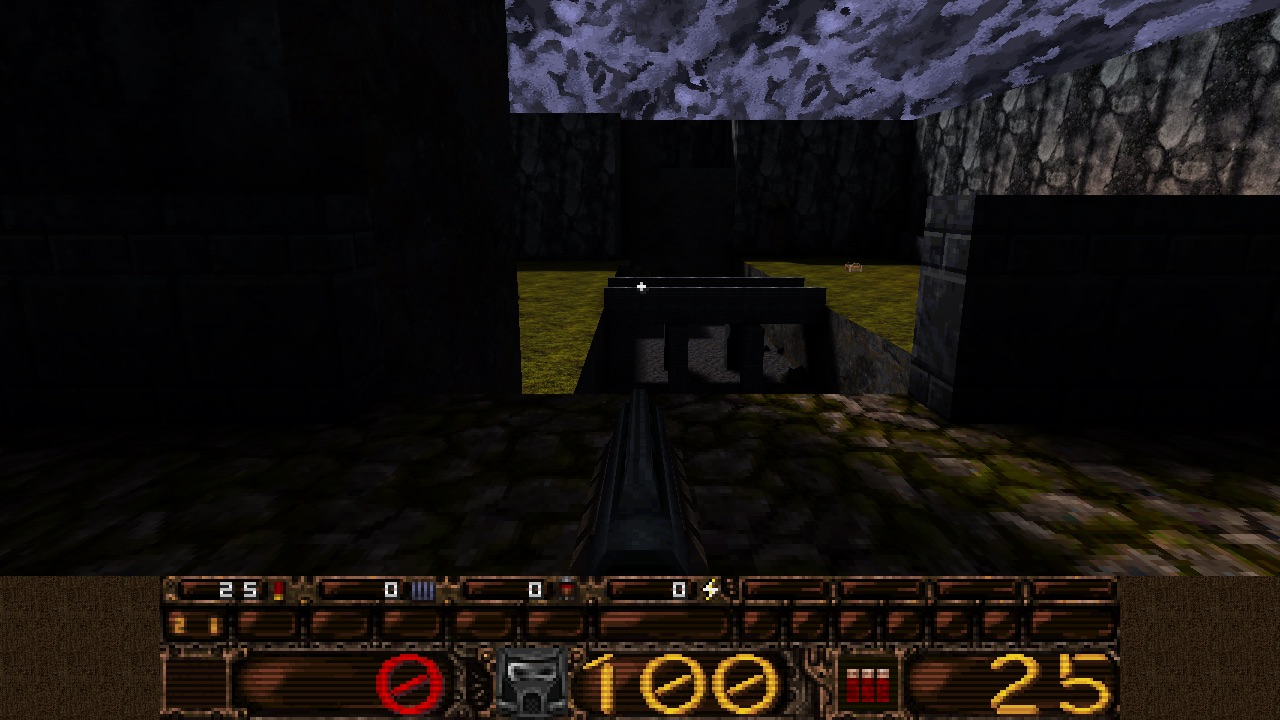
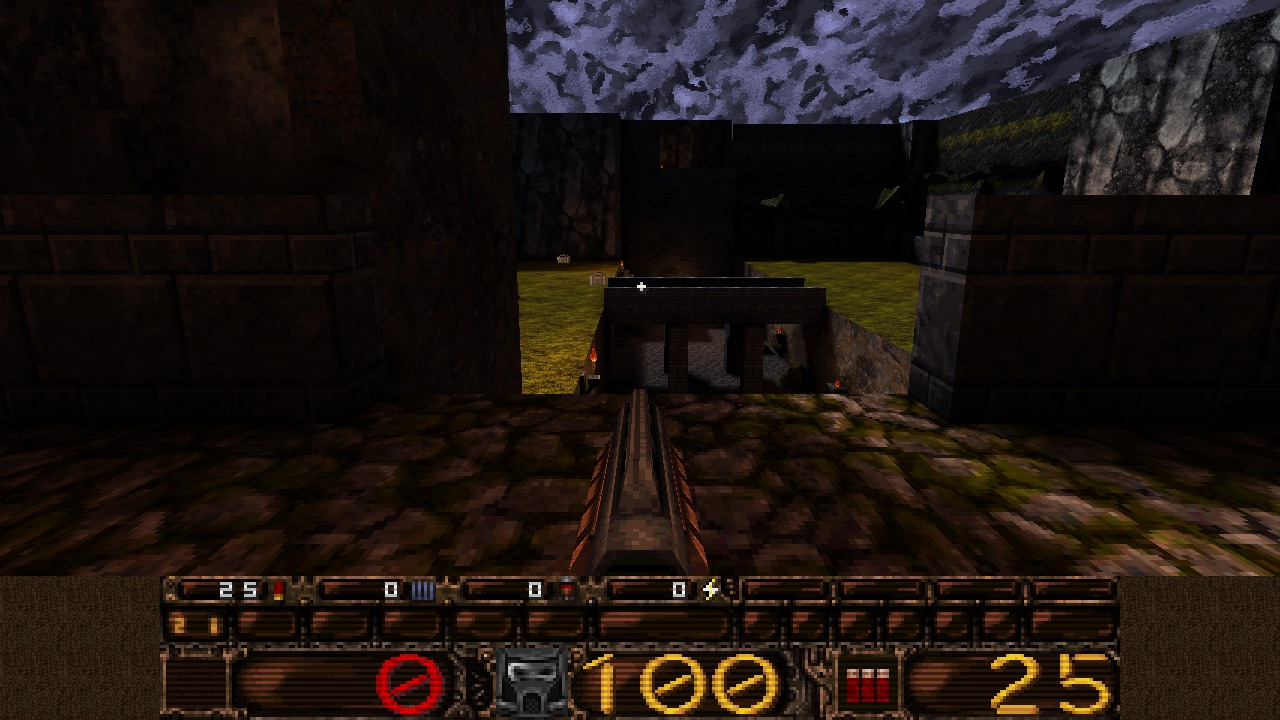
fix(arenas): Light the lava pits, frame the changed spots, refresh shots
Forge's lava pits glow from inside; the anvil that hid the south pit
from the hall goes. New camera stands for each spot the play-test
named (Ruins' spiral stairs, keep stair, cliff and chasm; Forge's
twin stairs, corner escape, pit and catwalk). The Temple's side stairs
into the courtyard are lit. Screenshots and plans refreshed.

diff --git a/tools/arena_maps.py b/tools/arena_maps.py
@@ -844,7 +844,7 @@ def _forge():
                                             tex="met_blc_trim32")))
     pieces += _forge_sconces()
     # cover in the hall's cross: anvils of dark metal
-    for lo, hi in (((-40, 280, 0), (40, 360, 40)), ((-40, 840, 0), (40, 920, 40))):
+    for lo, hi in (((-40, 840, 0), (40, 920, 40)),):
         pieces.append(("box", dict(lo=lo, hi=hi, tex="met_blc_block")))
     items = [
         ("weapon_supershotgun", -544, -448, 16), ("item_shells", 544, -480, 16),
@@ -885,6 +885,8 @@ def _forge():
                for y in (-256, 64, 384, 704, 960, 1200)]
     lights += [(x, -280, 290, 240, "1 0.8 0.6") for x in (-320, 0, 320)]
     lights += [(x, y, 120, 280, "1 0.8 0.6") for x in (-256, 256, -576, 576) for y in (1100, 1250)]
+    # the hall's lava pits glow from inside
+    lights += [(x, y, -48, 320, LAVA_LIGHT, 0.8) for x in (-64, 64) for y in (-48, 688)]
     return {
         "name": "psqforge", "title": "psQuake Arena: Forge",
         "bounds": (-1408, -1408, -256, 1408, 2048, 768),
@@ -902,7 +904,7 @@ def _forge():
                     ("high", 0, 1400, 192, 18, 270), ("room", 0, -1240, 0, -6, 90),
                     ("balcony", 816, -464, 176, 20, 180), ("perch", -600, 880, 192, 14, 315),
                     ("cover", 0, 220, 0, 2, 100), ("stairs", 160, 940, 0, 10, 100),
-                    ("corner", -560, -270, 0, 4, 180), ("pit", 0, 200, 0, 28, 270),
+                    ("corner", -560, -270, 0, 4, 180), ("pit", 0, 420, 0, 14, 270),
                     ("catwalk", -600, -280, 192, 6, 90)],
         "views": [("overview", 0, -150, 430, 32, 90)],
         "pins": [(-320, 0, 0), (320, 640, 0), (-928, 416, -64), (0, 1472, 192),
